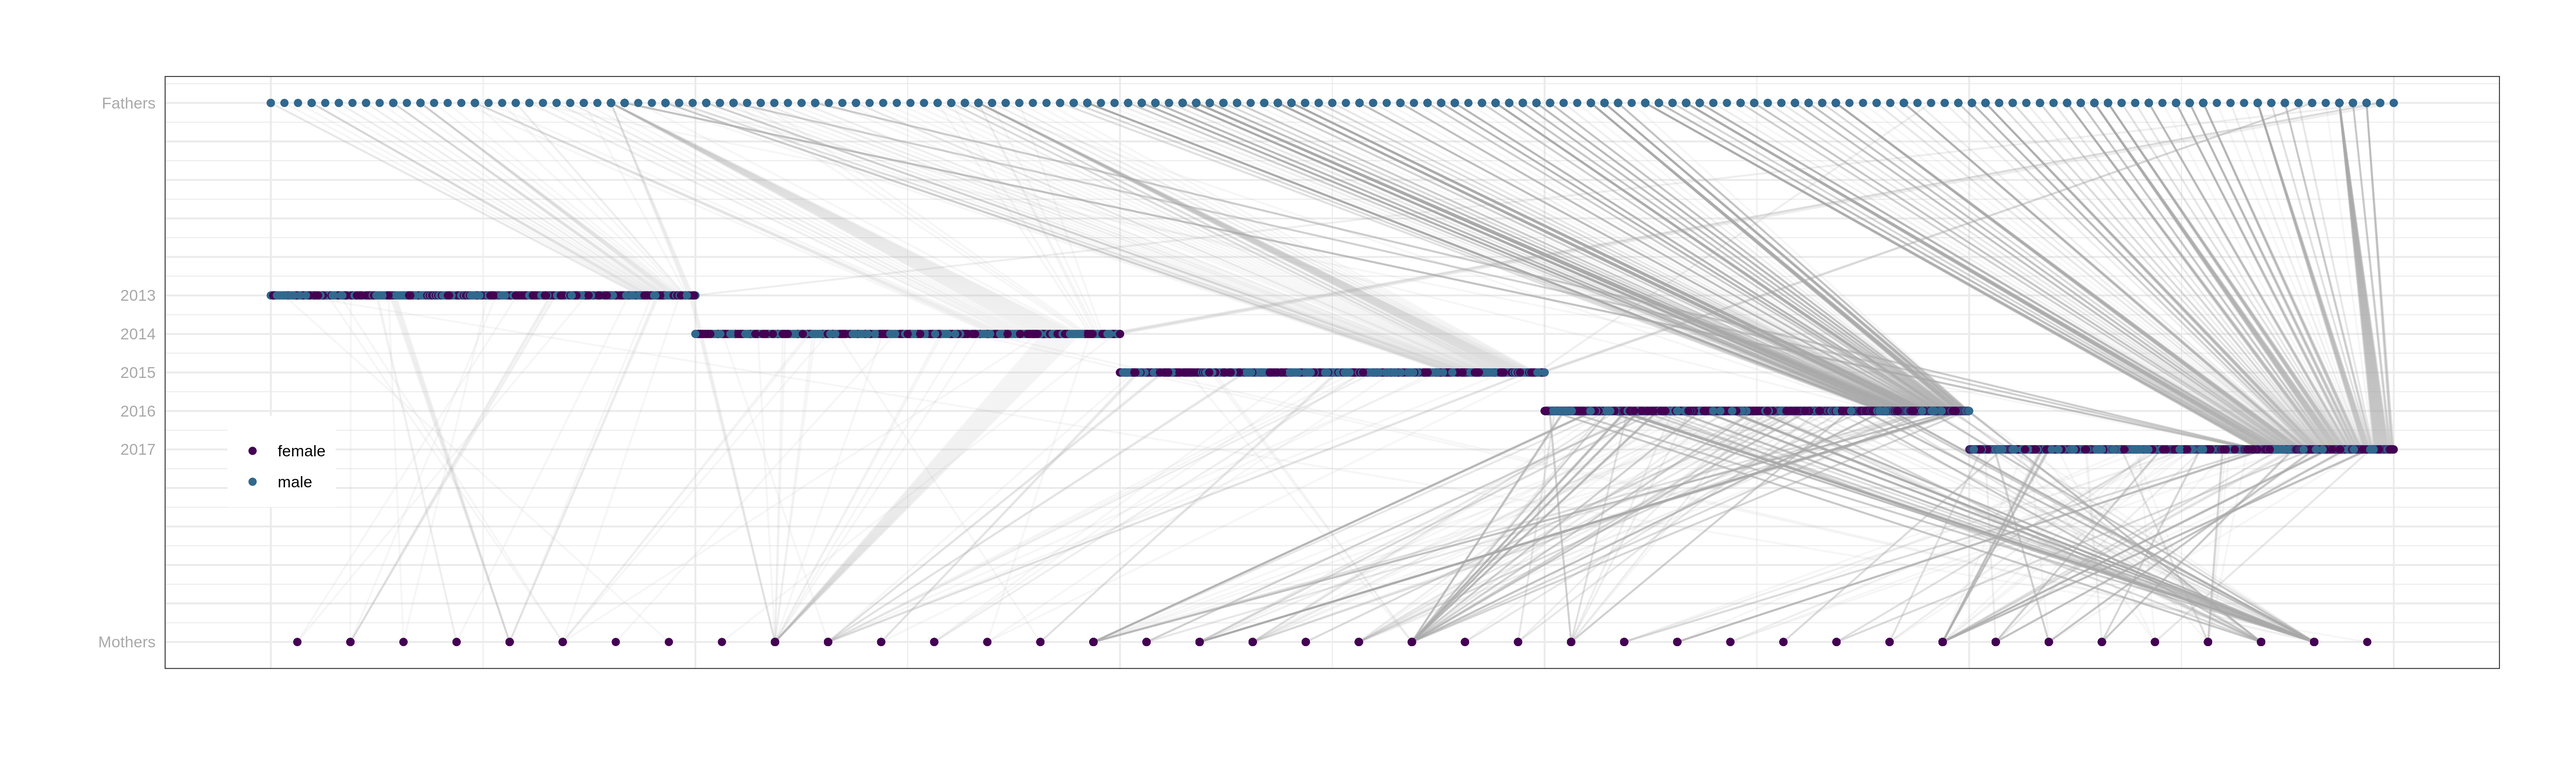
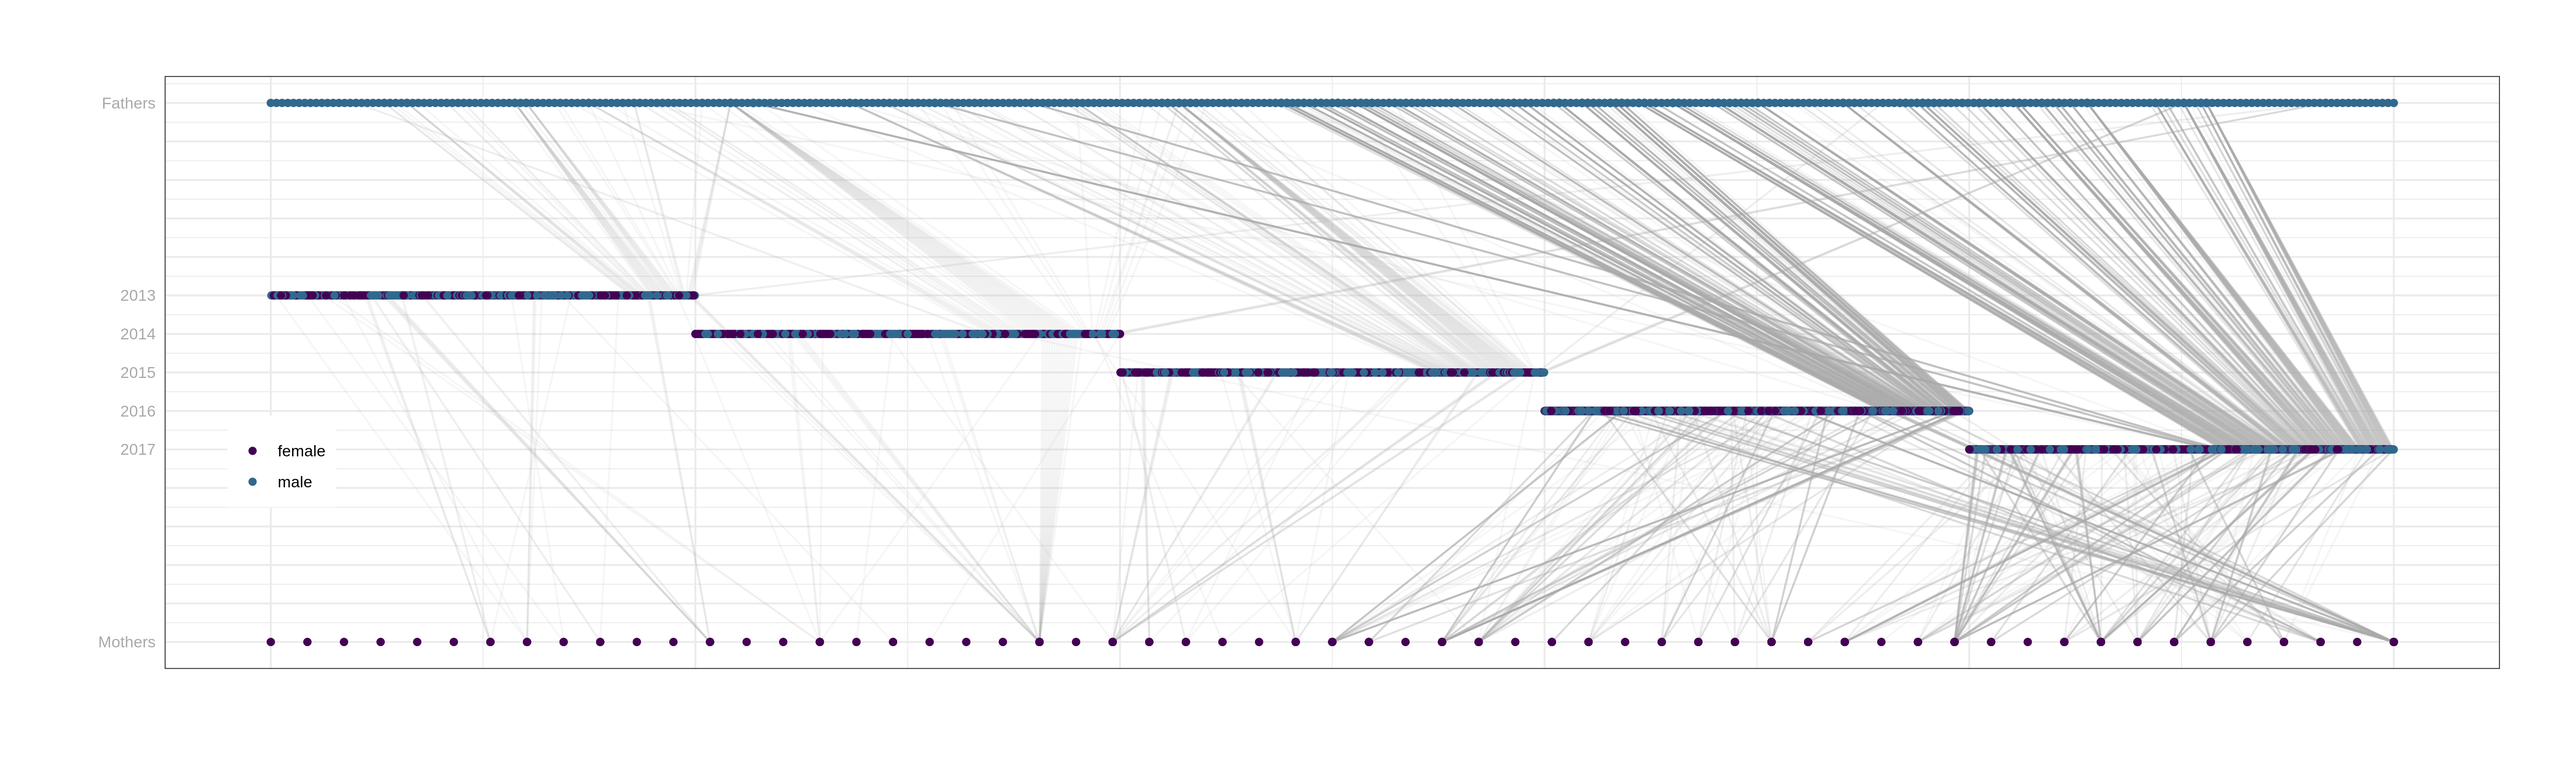
made plotting process tidier

diff --git a/recode_dates.py b/recode_dates.py
@@ -1,0 +1,67 @@
+import sys
+import argparse
+
+
+def fish_cat(fish_id, gender):
+
+    fish_id = fish_id.upper()
+
+    # catch ambig gender
+    if gender == 'unknown':
+        if 'GP' in fish_id:
+            return 'g'
+        else:
+            return None
+
+    # get young
+    if 'Y' in fish_id:
+        return gender[0] + '_off'
+
+    # rest should be adults
+    else:
+        return gender[0] + '_p'
+
+
+def main():
+    parser = argparse.ArgumentParser()
+    parser.add_argument('-f_off', help='recode female offspring', default='actual')
+    parser.add_argument('-m_off', help='recode male offspring', default='actual')
+    parser.add_argument('-f_p', help='recode female parents', default='actual')
+    parser.add_argument('-m_p', help='recode male parents', default='actual')
+    parser.add_argument('-g', help='recode grand parents', default='actual')
+    args = parser.parse_args()
+
+    recode_dict = {'f_off': args.f_off, 'm_off': args.m_off, 'f_p': args.f_p, 'm_p': args.m_p, 'g': args.g}
+
+    for line in sys.stdin:
+
+        line = line.rstrip()
+
+        if line.startswith('id'):
+            print(line)
+            continue
+
+        line = line.split(',')
+
+        ped_cat = fish_cat(fish_id=line[0], gender=line[4])
+
+        if ped_cat is None:
+            print(*line, sep=',')
+            continue
+
+        action = recode_dict[ped_cat]
+
+        if action == 'actual':
+            print(*line, sep=',')
+            continue
+
+        elif action == 'rm':
+            continue
+
+        else:
+            line[3] = action
+            print(*line, sep=',')
+
+
+if __name__ == '__main__':
+    main()
